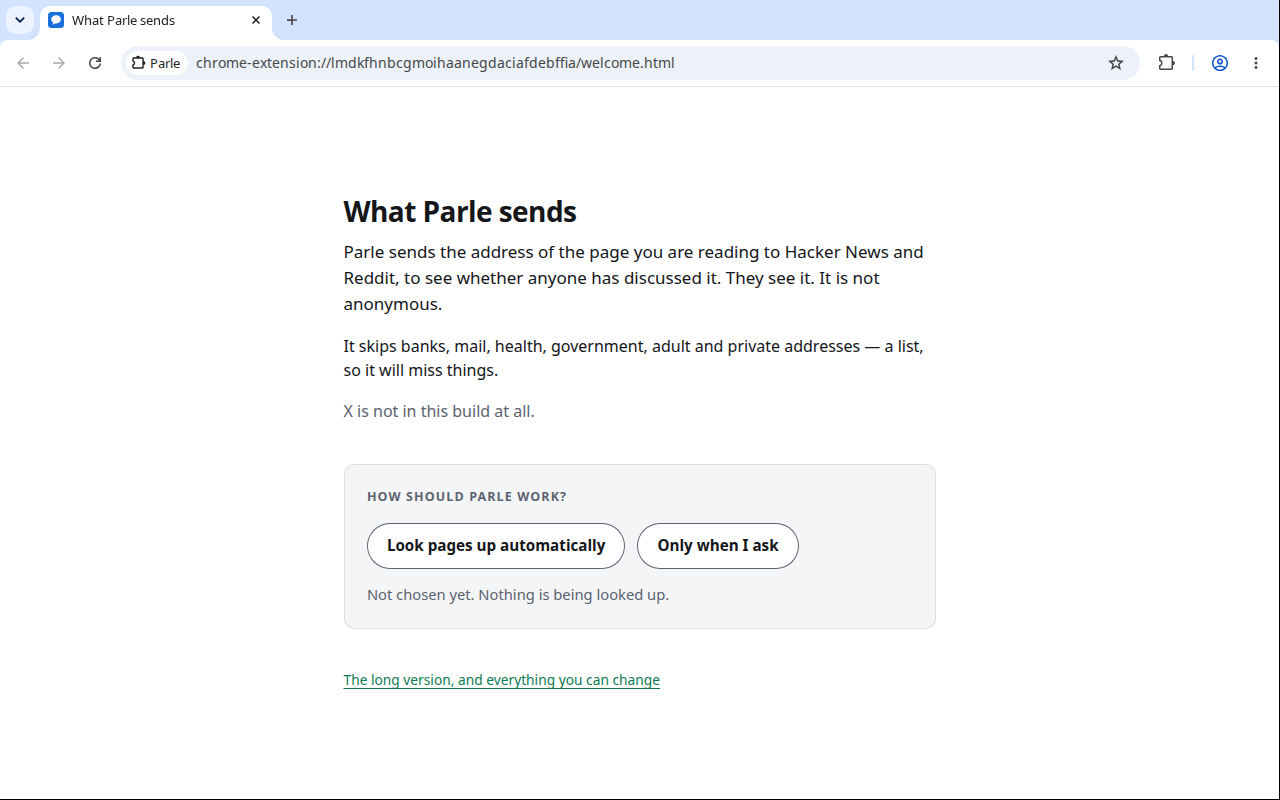
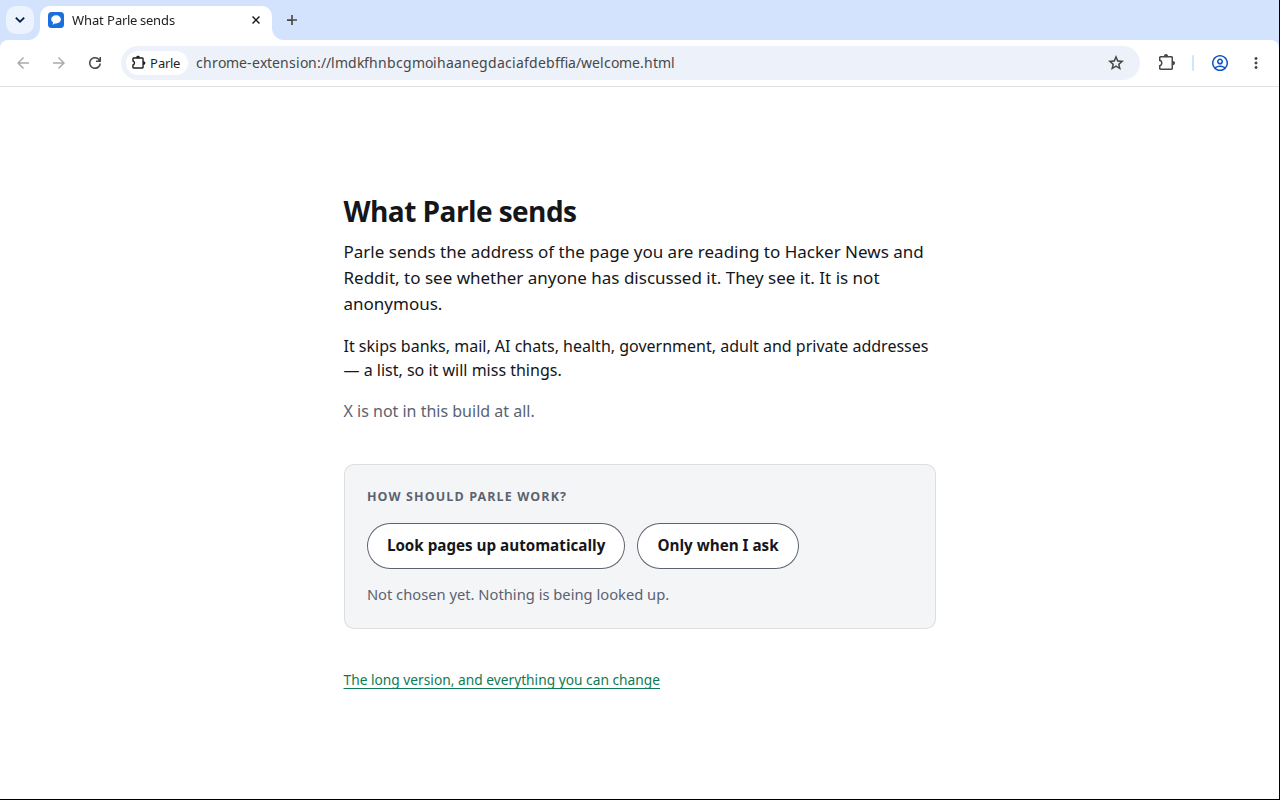
Say AI chats on every screen that speaks before a Lookup, and un-dead the perplexity row
The review was right on every count. perplexity.ai was already seeded
under search, the exclusion map is last-write-wins by domain, and the
new ai-chat row was dead on arrival — the live ask answered "search".
The dead row is gone with a comment saying why (search already
withholds it; a search engine that answers in prose is still a search
engine), and the test now asks perplexity.ai, chat.openai.com and
grok.com so neither the choice nor the closed set can drift silently.

The disclosure now moves in step everywhere, not just in the store
copy: first-run, the settings standing paragraph, the Grounds fallback
sentence, README, privacy-policy.md §2, and the live page's source
(pushed in ~/repos/website) all name AI chats. The first-run frame is
reshot — it is the screen that speaks before anything is sent, and it
is store screenshot 02.

listing.md now says 3.1.2 in the version table, the §2.2 manifest
record and the submit checklist, with 3.1.1 noted as in the pipe. The
runbook unit totals move to the measured 1,254. And an empty
removed_by_category is treated as the live post it is, not a removal.

Changed region(s): [[0.25, 0.4062, 0.7188, 0.4688]]

diff --git a/packages/policy/src/ExclusionList.test.ts b/packages/policy/src/ExclusionList.test.ts
@@ -76,8 +76,10 @@ describe("the domains reviewers actually test", () => {
     for (const url of [
       "https://chatgpt.com/",
       "https://chatgpt.com/c/68a4d2e1-1234-8000-b111-2f3a4b5c6d7e",
+      "https://chat.openai.com/c/2b1c0d9e-dddd-eeee-ffff-000111222333",
       "https://claude.ai/chat/0e35a3a1-aaaa-bbbb-cccc-666555444333",
-      "https://gemini.google.com/app"
+      "https://gemini.google.com/app",
+      "https://grok.com/"
     ]) {
       const out = ask(url)
       expect(Option.isSome(out) && out.value._tag === "ListedDomain" && out.value.category, url)
@@ -85,6 +87,16 @@ describe("the domains reviewers actually test", () => {
     }
     // The vendor's other estates stay readable — only the chat surface is listed.
     expect(Option.isNone(ask("https://openai.com/index/gpt-5/"))).toBe(true)
+    // perplexity.ai stays `search`, deliberately. The exclusion map is
+    // last-write-wins by domain, so a second ai-chat row would either be dead
+    // or silently reclassify it — the first draft of this change shipped
+    // exactly that dead row, and this assertion is what makes the choice a
+    // choice rather than an accident of row order.
+    const perplexity = ask("https://www.perplexity.ai/")
+    expect(
+      Option.isSome(perplexity) && perplexity.value._tag === "ListedDomain" &&
+        perplexity.value.category
+    ).toBe("search")
   })
 })
 

diff --git a/packages/networks/src/Reddit.test.ts b/packages/networks/src/Reddit.test.ts
@@ -178,6 +178,21 @@ describe("tier 1: the cookie path", () => {
               created_utc: 1719307028.0,
               removed_by_category: null
             }
+          },
+          {
+            kind: "t3",
+            data: {
+              id: "1dpz9qa",
+              subreddit: "MachineLearning",
+              title: "Not all open source AI models are open",
+              url: "https://www.nature.com/articles/d41586-024-02012-5",
+              score: 312,
+              num_comments: 41,
+              created_utc: 1719480000.0,
+              // The empty string is "not removed" said strangely, not a
+              // removal — a live post must not vanish over it.
+              removed_by_category: ""
+            }
           }
         ]
       }
@@ -187,7 +202,7 @@ describe("tier 1: the cookie path", () => {
       (reddit) => reddit.linked(SUBJECT, [])
     )
     expect(mentionsOf(terminal(consultations)).map((m) => m.discussion.nativeId as string))
-      .toEqual(["1dnr4kx"])
+      .toEqual(["1dnr4kx", "1dpz9qa"])
   })
 
   it("still checks the submitted URL against the Aliases", async () => {

diff --git a/packages/policy/src/Seed.ts b/packages/policy/src/Seed.ts
@@ -128,7 +128,12 @@ const entries: ReadonlyArray<ListedEntry> = [
   { domain: "claude.ai", category: "ai-chat" },
   { domain: "gemini.google.com", category: "ai-chat" },
   { domain: "copilot.microsoft.com", category: "ai-chat" },
-  { domain: "perplexity.ai", category: "ai-chat" },
+  // perplexity.ai is NOT here, deliberately: it has been under `search`
+  // since before this category existed, the exclusion map is last-write-wins
+  // by domain, and a second row is either dead or a silent reclassification
+  // — measured: the search row below won and the ai-chat row never applied.
+  // Search already withholds it, and a search engine that answers in prose
+  // is still a search engine. Locked by a test.
   { domain: "poe.com", category: "ai-chat" },
   { domain: "chat.deepseek.com", category: "ai-chat" },
   { domain: "grok.com", category: "ai-chat" },

diff --git a/apps/extension/src/view/settingsCopy.ts b/apps/extension/src/view/settingsCopy.ts
@@ -42,7 +42,7 @@ export const DISCLOSURE = {
   title: "What Parle sends",
   paragraphs: [
     "Parle sends the address of the page you are reading to Hacker News, Reddit and X, to see whether anyone has discussed it. They see it. It is not anonymous.",
-    "It skips banks, mail, health, government, adult, social and private addresses, and addresses that visibly carry a token. It never sends what comes after the #.",
+    "It skips banks, mail, AI chats, health, government, adult, social and private addresses, and addresses that visibly carry a token. It never sends what comes after the #.",
     "That is a list, so it will miss things. Read it below, add to it, override it, or turn automatic lookups off."
   ],
   /**

diff --git a/packages/networks/src/Reddit.ts b/packages/networks/src/Reddit.ts
@@ -143,8 +143,11 @@ const fromListing = (listing: typeof Listing.Type): ReadonlyArray<Found> =>
      * search already excludes them, so tier 2 never had this problem — this
      * makes tier 1 as honest as tier 2.
      */
+    // `""` passes too: an empty string is "not removed" said strangely, and a
+    // schema-tolerant reader must not turn it into a vanished live post.
     .filter((child) =>
-      child.data.removed_by_category === undefined || child.data.removed_by_category === null
+      child.data.removed_by_category === undefined || child.data.removed_by_category === null ||
+      child.data.removed_by_category === ""
     )
     .map((child) => ({
       nativeId: child.data.id,

diff --git a/apps/extension/src/policy/Grounds.ts b/apps/extension/src/policy/Grounds.ts
@@ -92,7 +92,7 @@ export const exclusionWords = (ground: string | null, address: string): string =
   // knowing what kinds of thing are on it, and cannot correct it either.
   const host = hostOf(address)
   const kinds =
-    "It skips banks, mail, health, government, adult and social sites, and addresses that look private."
+    "It skips banks, mail, AI chats, health, government, adult and social sites, and addresses that look private."
   return host === null
     ? `Parle isn't looking this page up. ${kinds}`
     : `Parle doesn't look up pages on ${host}. ${kinds}`

diff --git a/apps/extension/src/view/welcomeCopy.ts b/apps/extension/src/view/welcomeCopy.ts
@@ -56,7 +56,7 @@ export const FIRST_RUN = {
    * the paragraph it replaced by being read.
    */
   skips:
-    "It skips banks, mail, health, government, adult and private addresses — a list, so it will miss things.",
+    "It skips banks, mail, AI chats, health, government, adult and private addresses — a list, so it will miss things.",
 
   /** What this build cannot do, or nothing once nothing is compiled out. */
   absent: (names: ReadonlyArray<string>): string | null =>

diff --git a/store/listing.md b/store/listing.md
@@ -28,7 +28,7 @@ a re-review asks about again; it is not a list to redo.
 | Field | Old (2015) | Now |
 |---|---|---|
 | Manifest | V2 | **V3**, on Chrome, Firefox and Safari from one codebase. This is the entire reason the item was removed, and it is the one thing already fixed. |
-| Version | `2.90` | `3.1.1` (set in `apps/extension/package.json` — the only place; see `store/version.ts`) |
+| Version | `2.90` | `3.1.2` (set in `apps/extension/package.json` — the only place; see `store/version.ts`) |
 | Tiles | "INTRODUCING — A NEW WAY TO BROWSE THE WEB" | **Replace or delete them.** They describe a product that no longer exists. Replacements: `store/small-promo-tile-440x280.png`, `store/marquee-promo-tile-1400x560.png`. |
 | Icon | (whatever 2015 shipped) | `store/icons/128.png`, and the same mark now inside the package |
 | Screenshots | none | five, from the real-Chrome harness — see §5.1 |
@@ -177,7 +177,7 @@ whether and where the lookups happen.
 ### 2.2 Permission justifications
 
 **Read the built manifest, not this table, if they ever disagree** —
-`apps/extension/.output/chrome-mv3/manifest.json`. As built at version `3.1.1` the declared
+`apps/extension/.output/chrome-mv3/manifest.json`. As built at version `3.1.2` the declared
 permissions are exactly: `tabs`, `scripting`, `webNavigation`, and host permissions
 `http://*/*` and `https://*/*`. `storage` is deliberately **not** requested; the one thing
 written to disk goes through the Cache API, which needs no permission. There is no
@@ -438,8 +438,8 @@ pnpm --filter @parle/extension exec wxt zip       # writes .output/parleextensio
       the store rejects that with "manifest file is missing or unreadable". It has been deleted
       so it cannot be uploaded by mistake. `wxt zip` produces the correct shape; never `zip -r`
       the output directory.
-- [ ] **Version must exceed the version already on the item.** The store holds `3.1.0`; this
-      update is `3.1.1`. It is set in `apps/extension/package.json` and **nowhere else** —
+- [ ] **Version must exceed the version already on the item.** The store holds `3.1.0`, with
+      `3.1.1` in the pipe; this update is `3.1.2`. It is set in `apps/extension/package.json` and **nowhere else** —
       `wxt.config.ts` deliberately no longer carries a version, and `store/version.ts` is what
       bumps it. CI compares against the store and refuses anything not strictly greater.
 - [ ] Confirm the uploaded manifest declares exactly `tabs`, `scripting`, `webNavigation`,

diff --git a/README.md b/README.md
@@ -36,7 +36,7 @@ says "not applicable".
 
 Parle sends the address of the page you are reading to Hacker News and Reddit, to find out whether anyone has discussed it. The page's title is not sent — it is used on your machine to label what you are reading. That is the same thing as pasting the link into their search boxes — it is not anonymous, and those services see it.
 
-It does this automatically on most pages. It does **not** do it on pages that match a built-in exclusion list — banks, webmail, adult sites, government sites, social feeds, and private or internal addresses — or on pages whose address visibly contains a token or credential. It never sends the part of an address after the `#`, and it strips tracking parameters before sending.
+It does this automatically on most pages. It does **not** do it on pages that match a built-in exclusion list — banks, webmail, AI chats, adult sites, government sites, social feeds, and private or internal addresses — or on pages whose address visibly contains a token or credential. It never sends the part of an address after the `#`, and it strips tracking parameters before sending.
 
 That exclusion list is a list. It is incomplete, and it will miss things, including services we have not heard of and short share links that look like ordinary addresses.
 

diff --git a/store/privacy-policy.md b/store/privacy-policy.md
@@ -107,8 +107,8 @@ Nothing. There is no backend and the extension contacts none.
 - **Answering "Only when I ask"** means nothing is sent as you browse. The toolbar button still
   works on every page.
 - **The skip list.** Parle does not look up pages matching a built-in list — banks, webmail,
-  health, government, adult sites, social feeds, private and internal addresses — nor addresses
-  that visibly carry a token or credential. **This list is incomplete and will miss things**,
+  AI chats, health, government, adult sites, social feeds, private and internal addresses — nor
+  addresses that visibly carry a token or credential. **This list is incomplete and will miss things**,
   including services nobody has told us about and short share links that look like ordinary
   addresses. See §6.
 - **The fragment is always discarded.** Nothing after `#` in an address is ever sent. Tracking

diff --git a/HANDOFF.md b/HANDOFF.md
@@ -33,7 +33,7 @@ a backend, when it exists, may only make things *faster*, never *possible*
 
 ```
 main @ 0ea9779 · ziahamza/parle-extension
-1,252 unit tests · 20/20 typecheck · e2e 63/63 · torture 48/48 · 21 ADRs
+1,254 unit tests · 20/20 typecheck · e2e 63/63 · torture 48/48 · 21 ADRs
 ```
 
 Working and proven in a real browser: discovery against live Hacker News; Reddit (verified from the
@@ -55,7 +55,7 @@ Provider.
 
 ```bash
 pnpm install
-pnpm check                         # typecheck + tests: 20/20, 1,252 unit tests
+pnpm check                         # typecheck + tests: 20/20, 1,254 unit tests
 pnpm build                          # → apps/extension/.output/chrome-mv3
 ```
 

diff --git a/apps/extension/e2e/BATTLE.md b/apps/extension/e2e/BATTLE.md
@@ -10,7 +10,7 @@ recordings are preserved inside §4's ledger entries as the "before" of each fix
 
 > **Current-state addendum, 2026-08-11.** This document preserves the 2026-08-10 battle as historical
 > evidence. Its title-search rows and 1,328-test count are not the current product: title search was
-> subsequently removed in full. The current gate is 1,252 unit tests, `pnpm e2e` at 63/63, and
+> subsequently removed in full. The current gate is 1,254 unit tests, `pnpm e2e` at 63/63, and
 > `e2e:torture` at 48/48. The portable `e2e/run-browser.sh` uses Xvfb on Linux and visible Chrome on
 > macOS because Chrome 151 does not load extensions headlessly.
 
